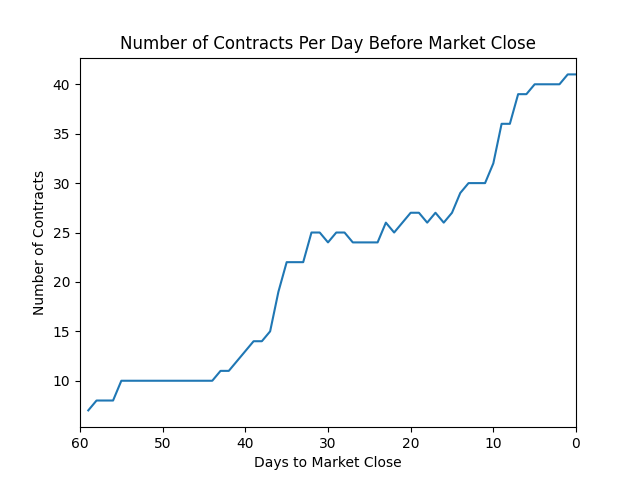
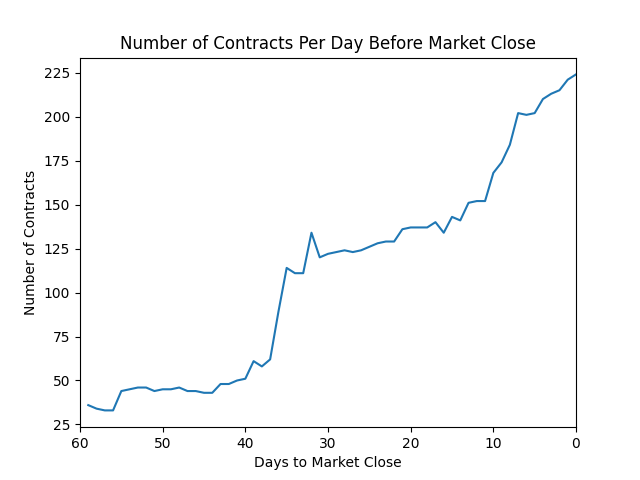
Experiment 2 is generating graphs

diff --git a/experiment-two.py b/experiment-two.py
@@ -16,9 +16,6 @@ num_num_contracts = []
 lookback = 60
 
 for day in range(0, lookback):
-
-    if day > 10:
-        hello = 0
     agg_profit = 0.0
     num_contracts = 0
     for closed_market_id, closed_market_date in closed_markets_dict.items():
@@ -47,12 +44,28 @@ for day in range(0, lookback):
                             data_object.set_close_price(closed_contract.bestSellNoCost)
                         # if closed_contract.bestBuyNoCost is not None:
                         #     data_object.set_close_price(closed_contract.bestBuyNoCost)
-                    pass
                     agg_profit += data_object.profit
                     num_contracts += 1
     agg_profits.append(agg_profit)
     num_num_contracts.append(num_contracts)
 
-    pass
-pass
+fig, ax = plt.subplots()
+ax.plot(agg_profits)
+ax.set_xlim(lookback, 0)
+ax.set_title("Aggregate Profits with $" + str(threshold) + " Threshold - Experiment 2")
+ax.set_xlabel("Days to Market Close")
+ax.set_ylabel("Aggregate Profits")
+plt.savefig("experiment-two/agg_profit_60_day.png")
+plt.close()
+
+with open('experiment-two/results.txt', 'w') as f:
+    f.write("Average profit: " + str(sum(agg_profits) / len(agg_profits)))
+
+fig, ax = plt.subplots()
+ax.plot(num_num_contracts)
+ax.set_xlim(lookback, 0)
+ax.set_title("Number of Contracts Per Day Before Market Close")
+ax.set_xlabel("Days to Market Close")
+ax.set_ylabel("Number of Contracts")
+plt.savefig("experiment-two/num_contracts.png")
 
